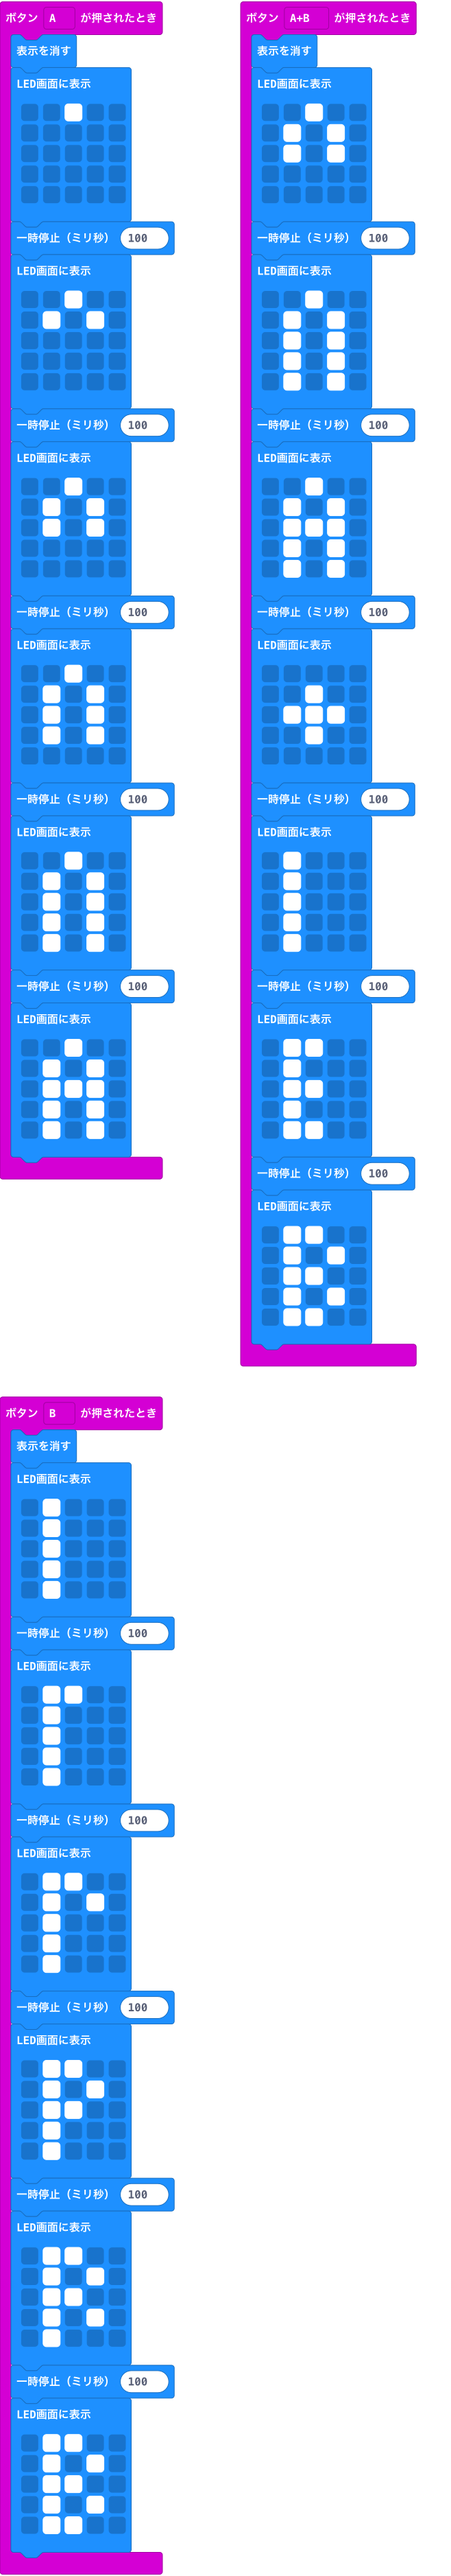
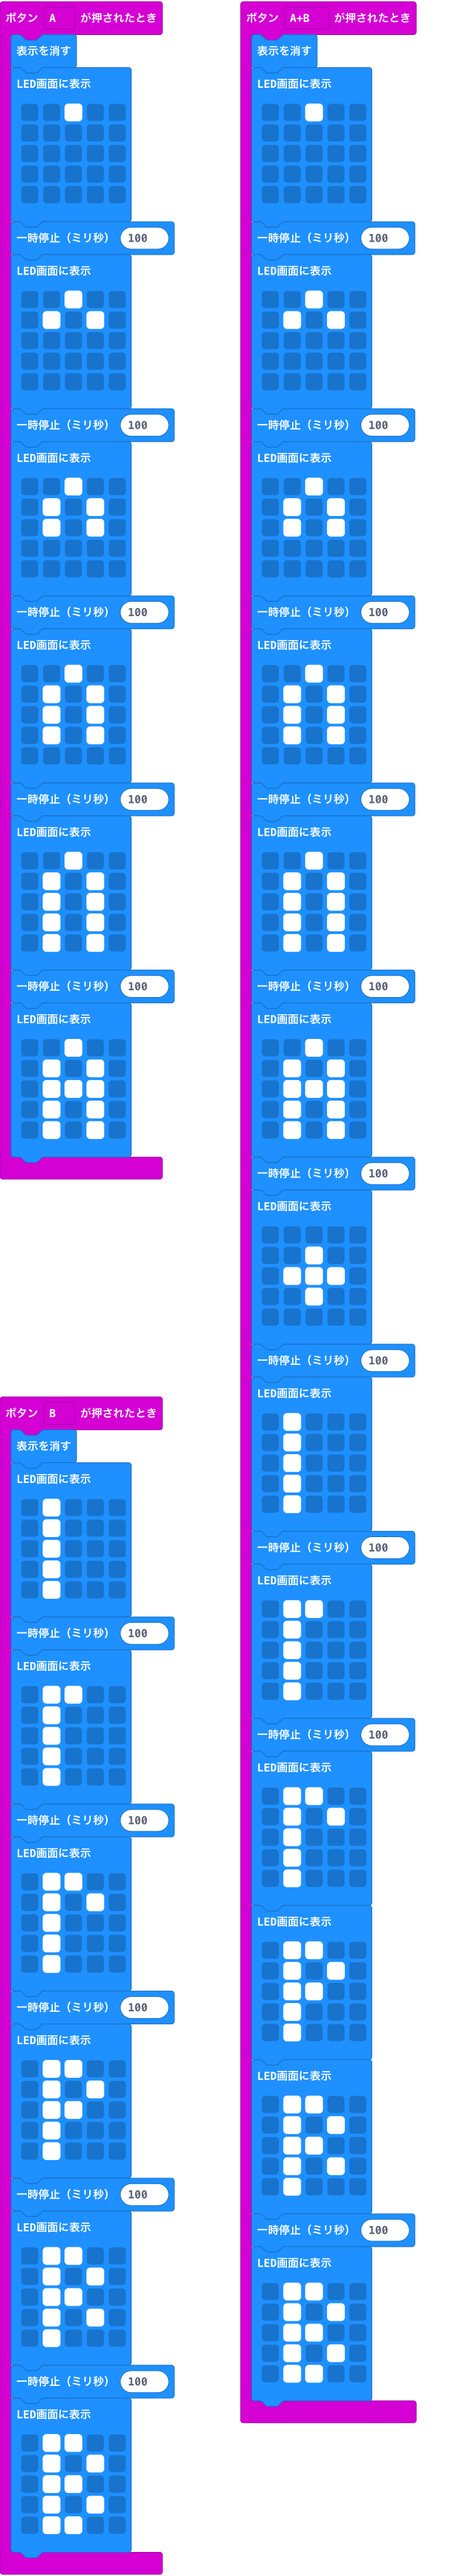
add to motion of A+B

diff --git a/main.ts b/main.ts
@@ -52,9 +52,33 @@ input.onButtonPressed(Button.AB, function () {
     basic.clearScreen()
     basic.showLeds(`
         . . # . .
+        . . . . .
+        . . . . .
+        . . . . .
+        . . . . .
+        `)
+    basic.pause(100)
+    basic.showLeds(`
+        . . # . .
+        . # . # .
+        . . . . .
+        . . . . .
+        . . . . .
+        `)
+    basic.pause(100)
+    basic.showLeds(`
+        . . # . .
         . # . # .
         . # . # .
         . . . . .
+        . . . . .
+        `)
+    basic.pause(100)
+    basic.showLeds(`
+        . . # . .
+        . # . # .
+        . # . # .
+        . # . # .
         . . . . .
         `)
     basic.pause(100)
@@ -93,9 +117,31 @@ input.onButtonPressed(Button.AB, function () {
     basic.showLeds(`
         . # # . .
         . # . . .
+        . # . . .
+        . # . . .
+        . # . . .
+        `)
+    basic.pause(100)
+    basic.showLeds(`
+        . # # . .
+        . # . # .
+        . # . . .
+        . # . . .
+        . # . . .
+        `)
+    basic.showLeds(`
+        . # # . .
+        . # . # .
         . # # . .
         . # . . .
+        . # . . .
+        `)
+    basic.showLeds(`
         . # # . .
+        . # . # .
+        . # # . .
+        . # . # .
+        . # . . .
         `)
     basic.pause(100)
     basic.showLeds(`
